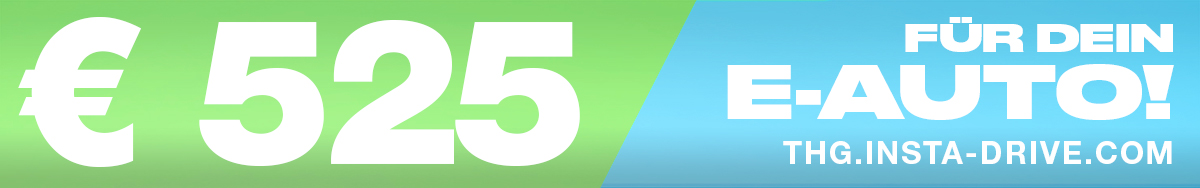
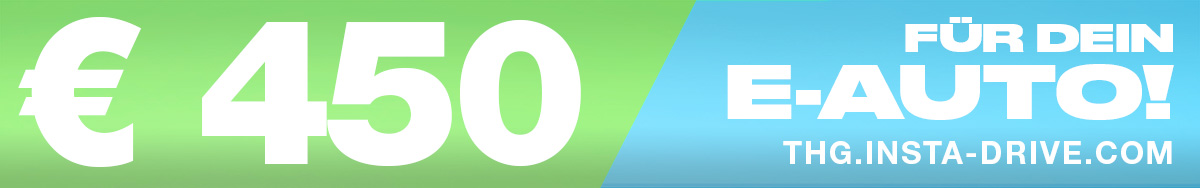
MOD deactivate THG in Germany MOD THG for AT

Changed region(s): [[0.1542, 0.1064, 0.4933, 0.9043]]

diff --git a/src/component/station_prices.js b/src/component/station_prices.js
@@ -34,7 +34,7 @@ export default class StationPrices extends ViewBase{
       {
         bannerImageUrl: "/img/partners/thg_DE.png",
         customAction: ()=> this.onThg("DE"),
-        countries: ["DE","Deutschland"],
+        countries: [],
         partner: "geldfuereauto",
         isHidden: ()=>this.settingsPrimitive.getBoolean("thgBannerHidden",false)
       },
